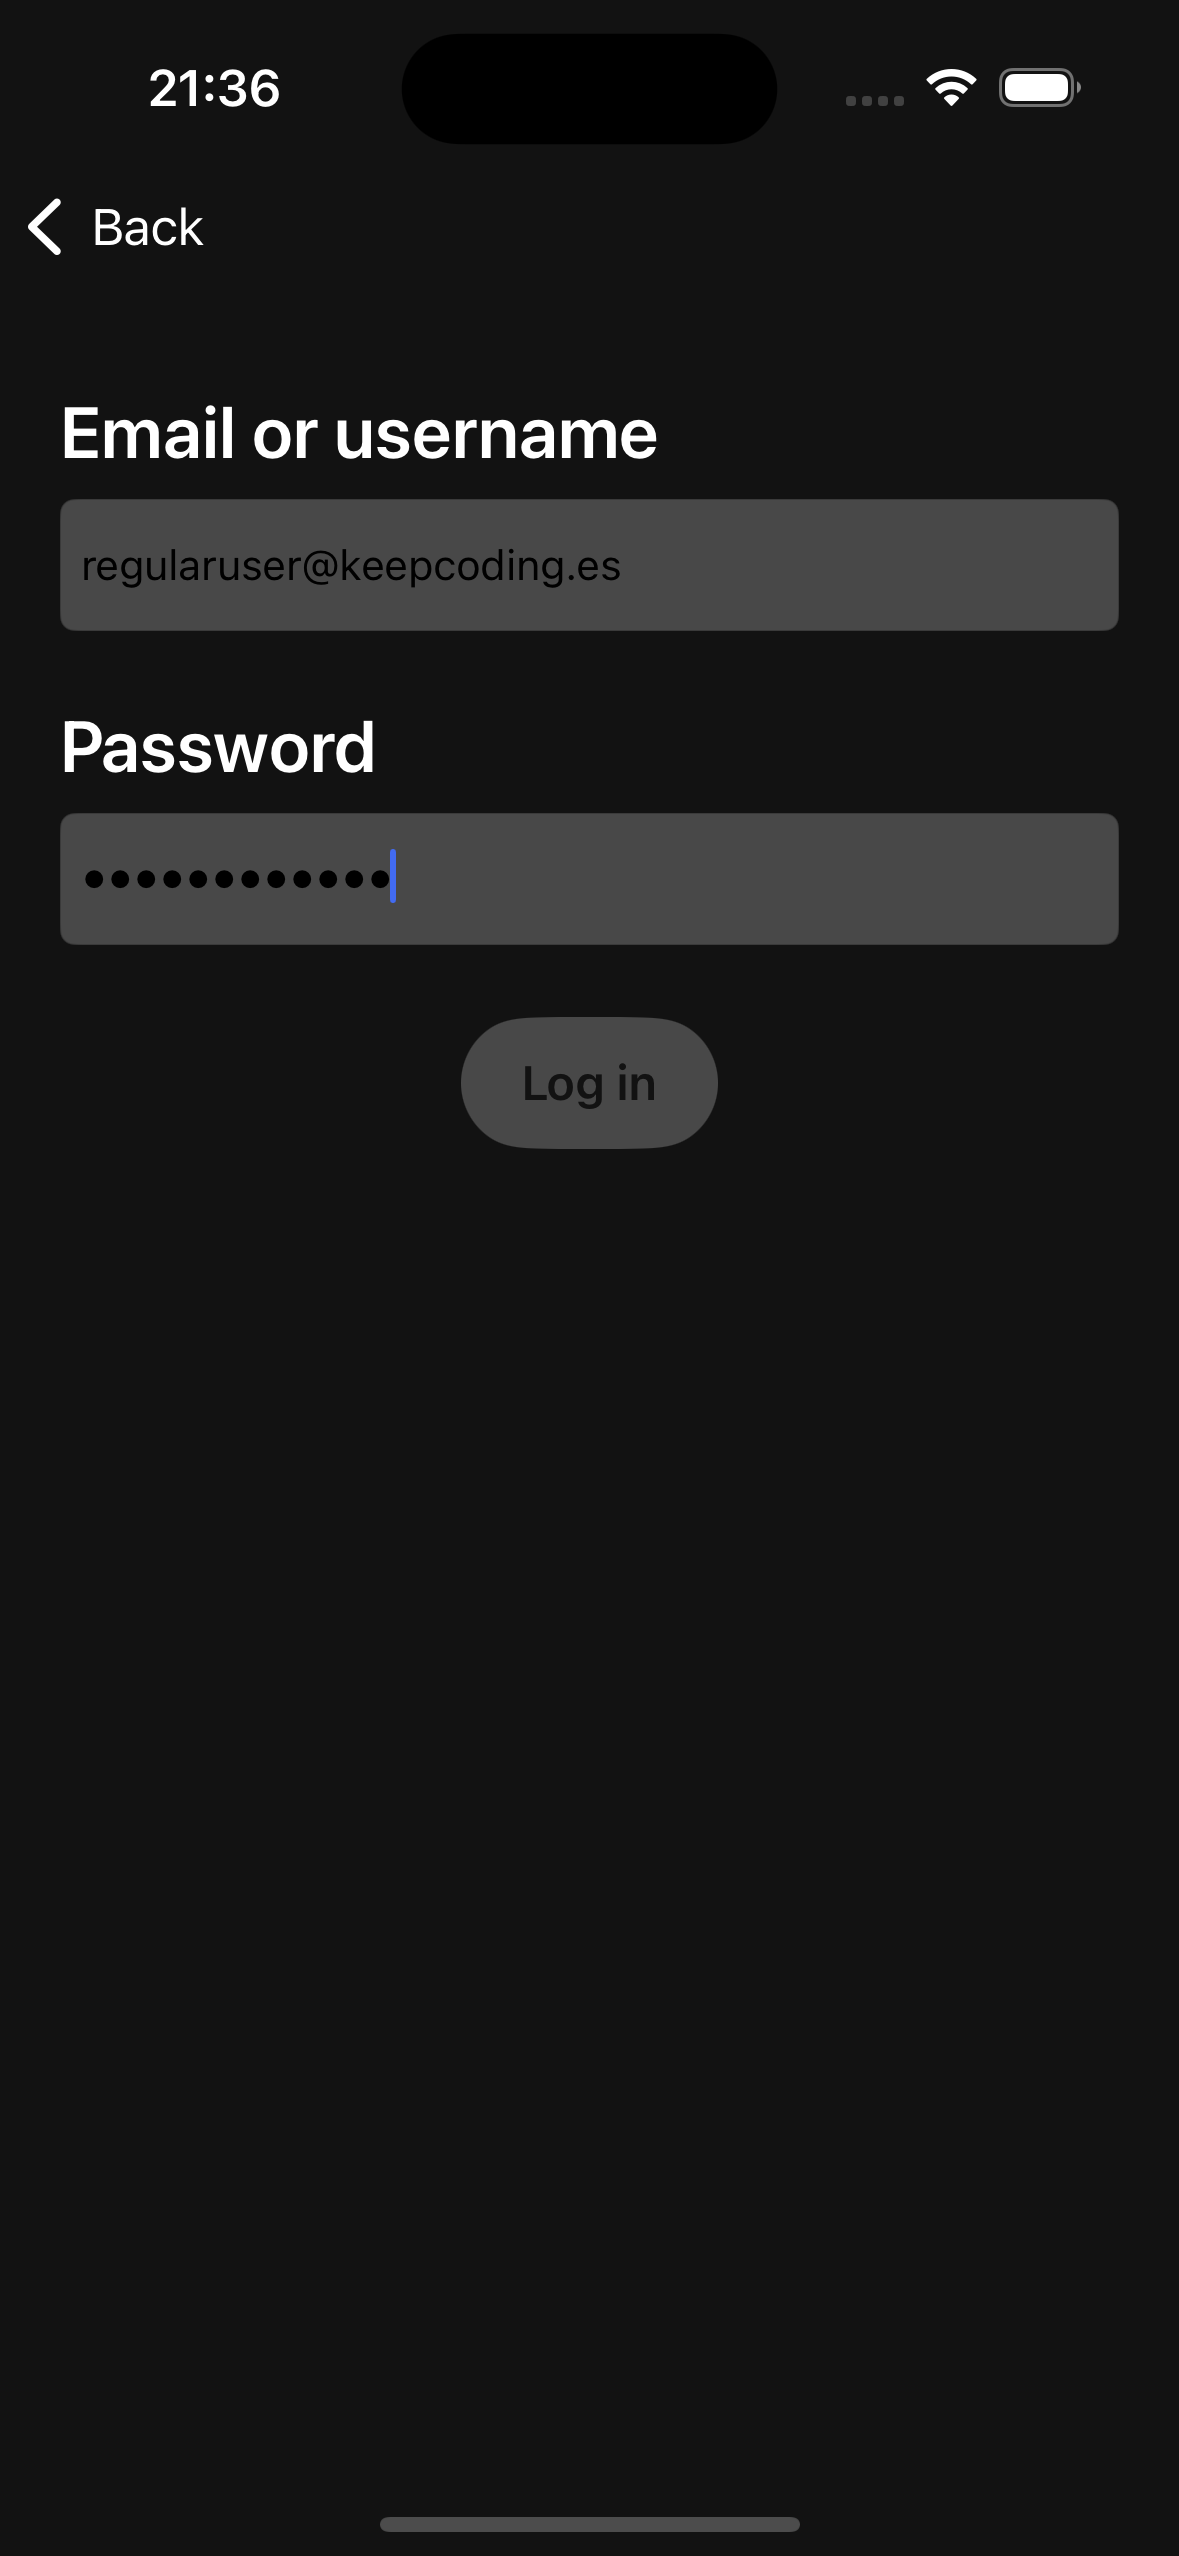
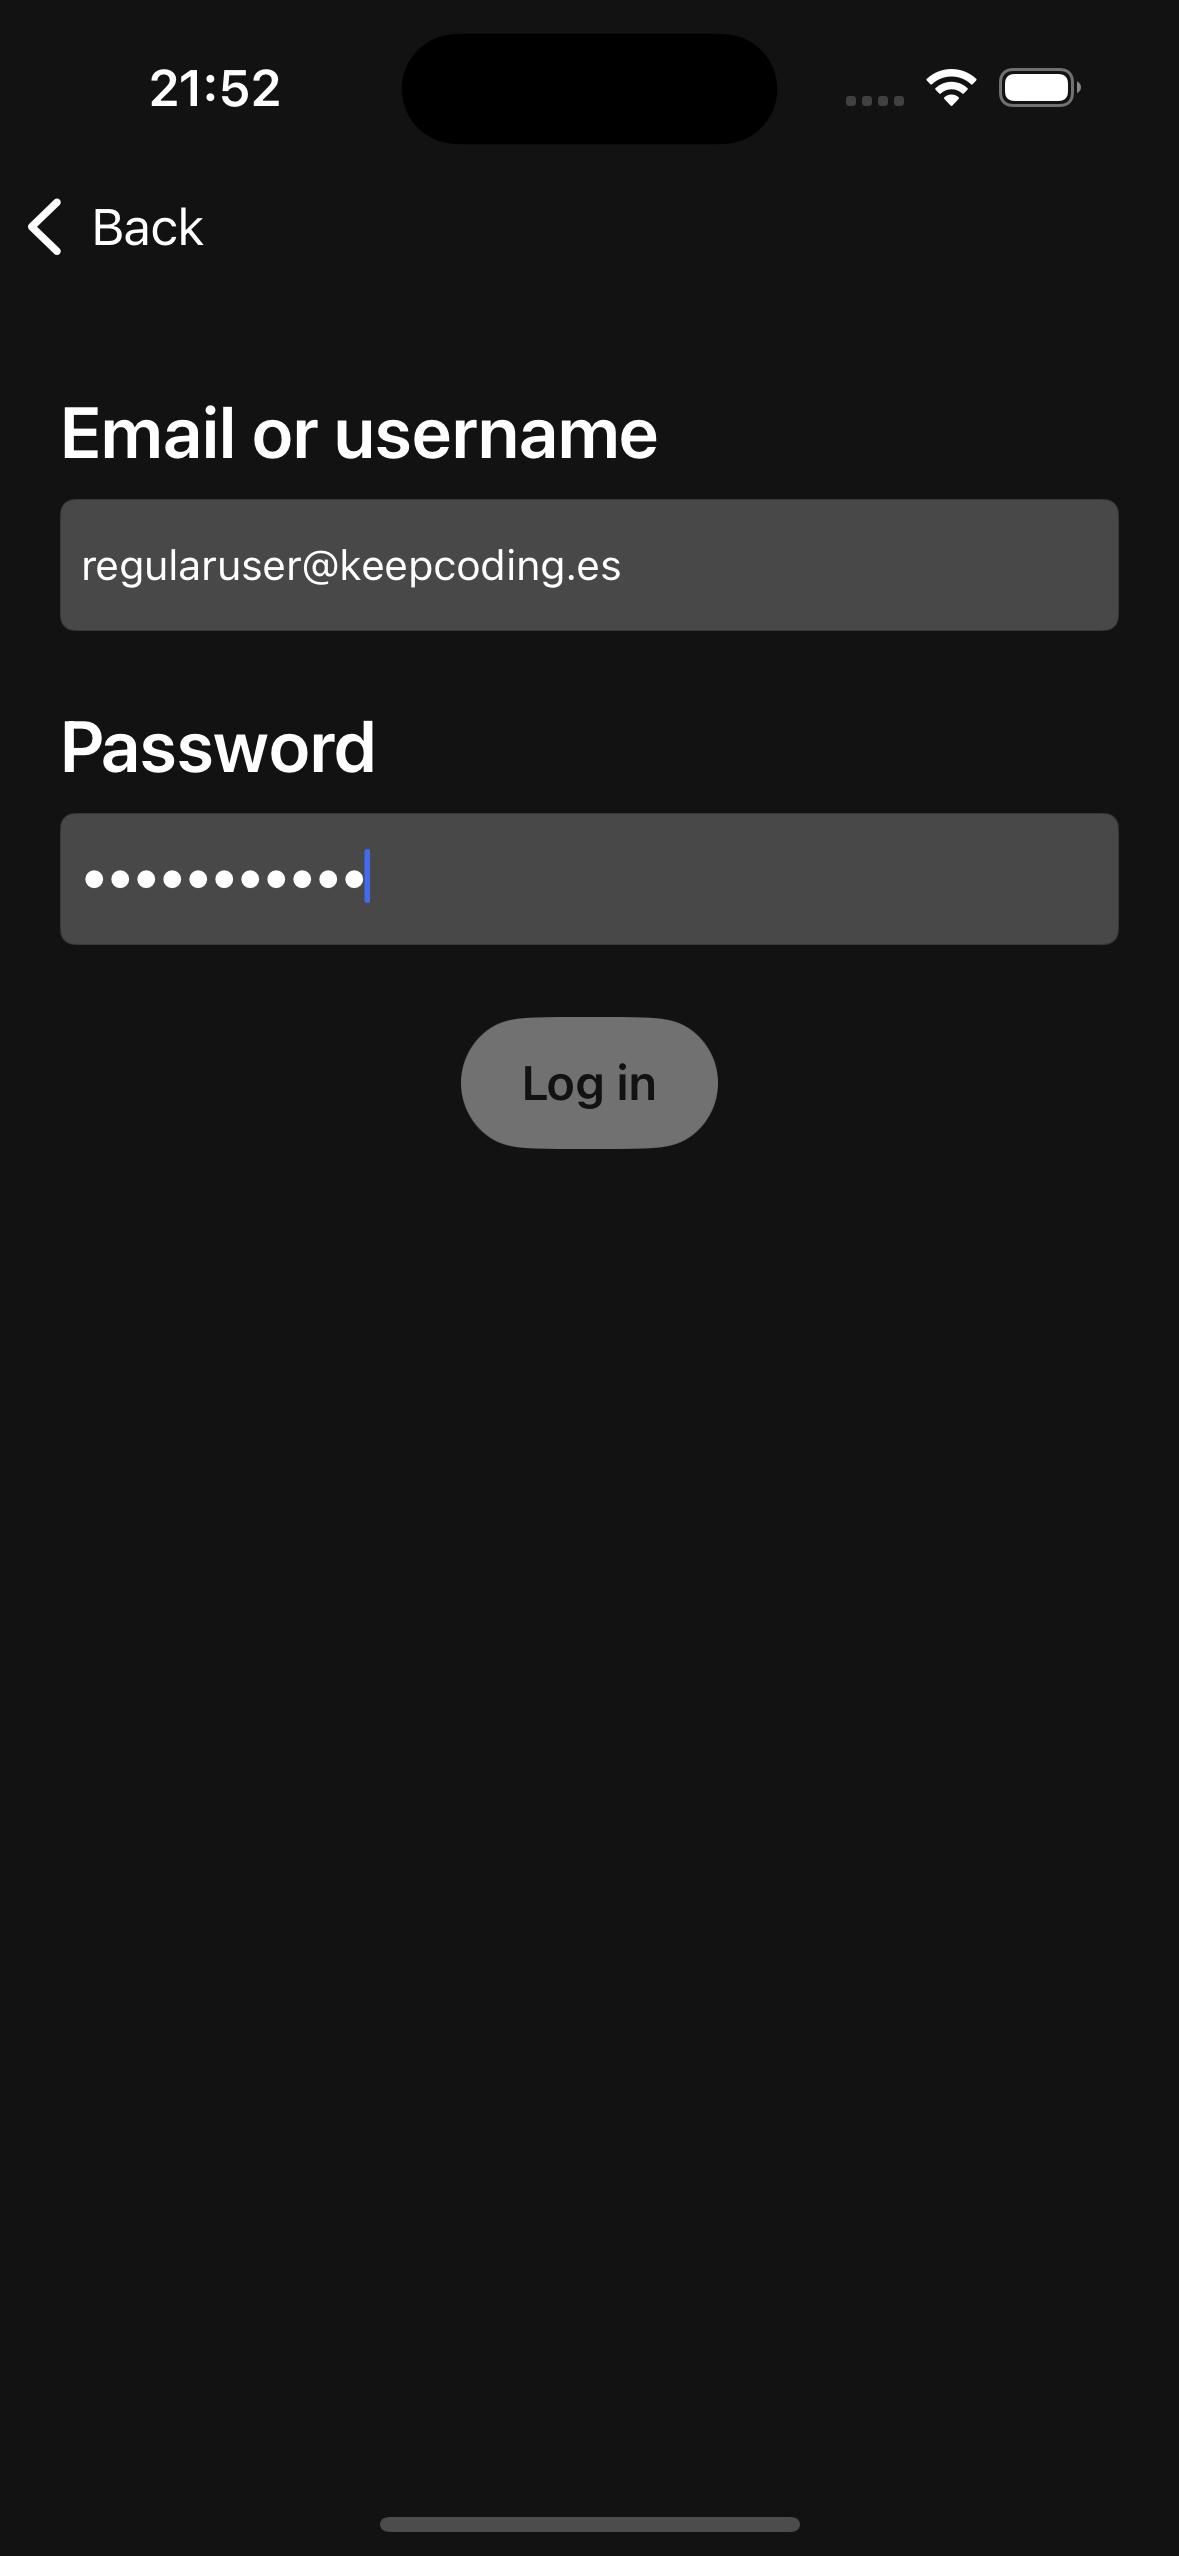
style(login): change textfields color

diff --git a/Spoticlone/Spoticlone/LogIn/LogInViewController.swift b/Spoticlone/Spoticlone/LogIn/LogInViewController.swift
@@ -28,7 +28,7 @@ extension LogInViewController {
         
         var logInButtonConfiguration = UIButton.Configuration.filled()
         logInButtonConfiguration.cornerStyle = .capsule
-        logInButtonConfiguration.baseBackgroundColor = .spotigray
+        logInButtonConfiguration.baseBackgroundColor = .sGrayLight
         logInButtonConfiguration.contentInsets = NSDirectionalEdgeInsets(
             top: 10,
             leading: 20,
